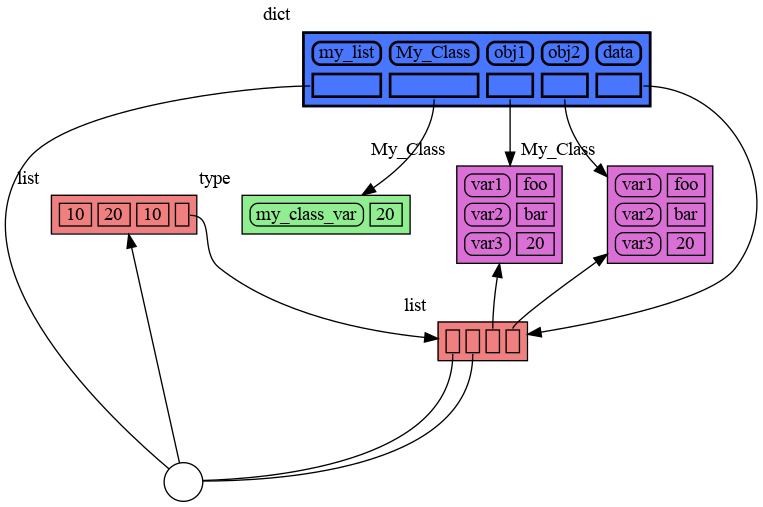
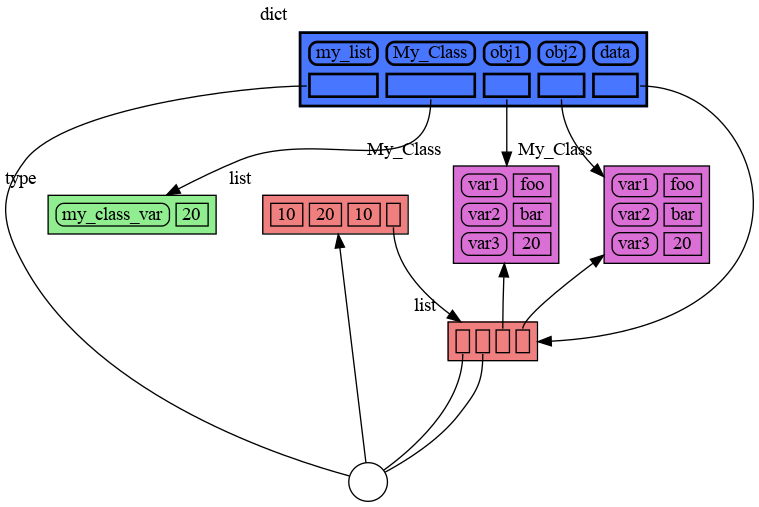
better graph layout: first same_rank, then nodes in sorted by index, then references

diff --git a/memory_graph/graphviz_nodes.py b/memory_graph/graphviz_nodes.py
@@ -28,12 +28,14 @@ edge_attr={}
 
 # ------- private ----------
 taken_children=set()
-all_references={}
+graphviz_nodes=[]
+graphviz_references={}
+
 
 def add_reference(src,dst):
-    if not dst in all_references:
-        all_references[dst]=[]
-    all_references[dst].append(src)
+    if not dst in graphviz_references:
+        graphviz_references[dst]=[]
+    graphviz_references[dst].append(src)
 
 def get_color(node):
     category=node.get_type_name()
@@ -135,11 +137,12 @@ def get_refs(node,all_nodes):
             for index,element in enumerate(node.get_elements())
             if not element.get_ref() is None)
 
-def create_node(node,all_nodes,graph):
-    name="node"+str(node.get_index())
-    border=2 if node.get_index()==0 else 1
-    node_label=get_node_label(node,border)
-    graph.node(name, node_label, xlabel=node.get_type_name())
+def traverse_node(node,all_nodes,graph):
+    #name="node"+str(node.get_index())
+    #border=2 if node.get_index()==0 else 1
+    #node_label=get_node_label(node,border)
+    #graph.node(name, node_label, xlabel=node.get_type_name())
+    graphviz_nodes.append(node)
     my_children=[]
     for node_src,node_dst in get_refs(node,all_nodes):
         add_reference(node_src,node_dst)
@@ -150,19 +153,27 @@ def create_node(node,all_nodes,graph):
         lineup=" -> ".join(my_children)
         graph.body.append('{ rank="same"  '+lineup+'  [weight=99,style=invis]; }\n')
         
-def create_graph_recursive(all_nodes,node_index,memo,graph):
+def traverse_graph_recursive(all_nodes,node_index,memo,graph):
     if not node_index in memo:
         memo.add(node_index)
         node=all_nodes[node_index]
         for e in node.get_elements():
             ref=e.get_ref()
             if ref:
-                create_graph_recursive(all_nodes,ref,memo,graph)
-        create_node(node,all_nodes,graph) # create while backtracking recursion 
+                traverse_graph_recursive(all_nodes,ref,memo,graph)
+        traverse_node(node,all_nodes,graph) # create while backtracking recursion
 
-def add_references(graph):
-    for dst in all_references:
-        src_list=all_references[dst]
+def add_graphviz_nodes(graph):
+    graphviz_nodes.sort(key=lambda n : n.get_index())
+    for node in graphviz_nodes:
+        name=get_node_name(node)
+        border=2 if node.get_index()==0 else 1
+        node_label=get_node_label(node,border)
+        graph.node(name, node_label, xlabel=node.get_type_name())
+        
+def add_graphviz_references(graph):
+    for dst in graphviz_references:
+        src_list=graphviz_references[dst]
         if len(src_list)<join_references_count:
             for src in src_list:
                 graph.edge(src, dst)
@@ -174,14 +185,15 @@ def add_references(graph):
                 graph.edge(src, join, dir="none", minlen=join_circle_minlen)
             
 def create_graph(all_nodes):
-    global taken_children
     taken_children.clear()
-    all_references.clear()
+    graphviz_nodes.clear()
+    graphviz_references.clear()
     #Node.print_all_nodes(all_nodes)
     graph=graphviz.Digraph('memory_graph',
                            graph_attr=graph_attr,
                            node_attr=node_attr,
                            edge_attr=edge_attr)
-    create_graph_recursive(all_nodes,0,set(),graph)
-    add_references(graph)
+    traverse_graph_recursive(all_nodes,0,set(),graph)
+    add_graphviz_nodes(graph)
+    add_graphviz_references(graph)
     return graph
